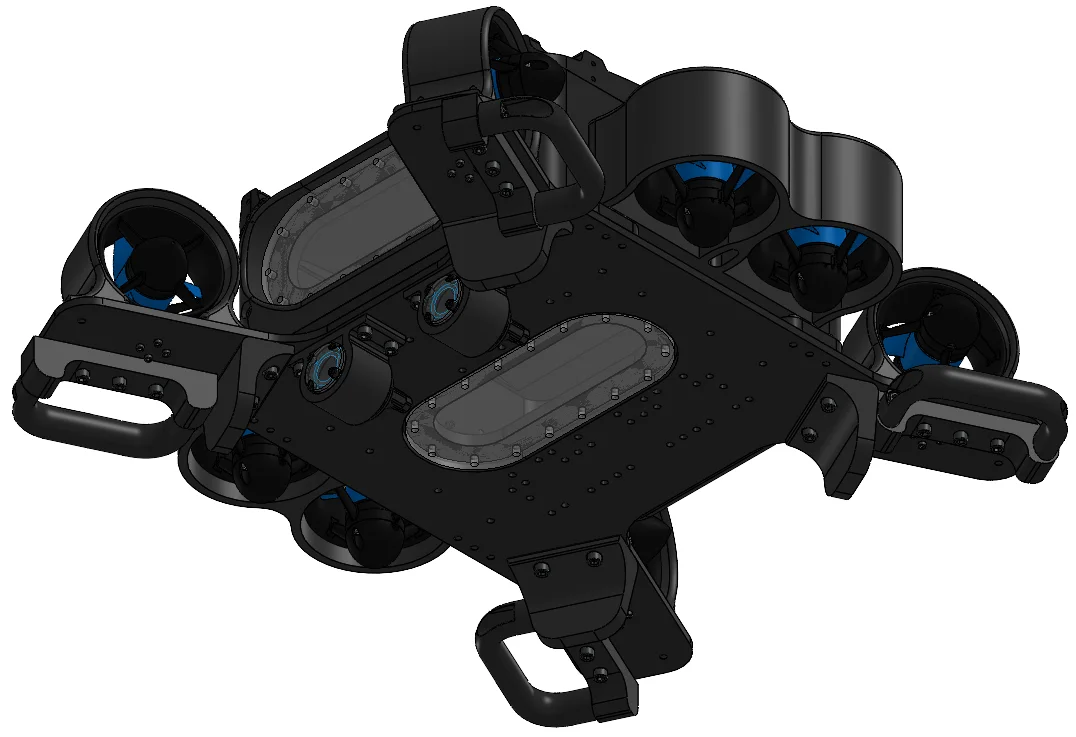
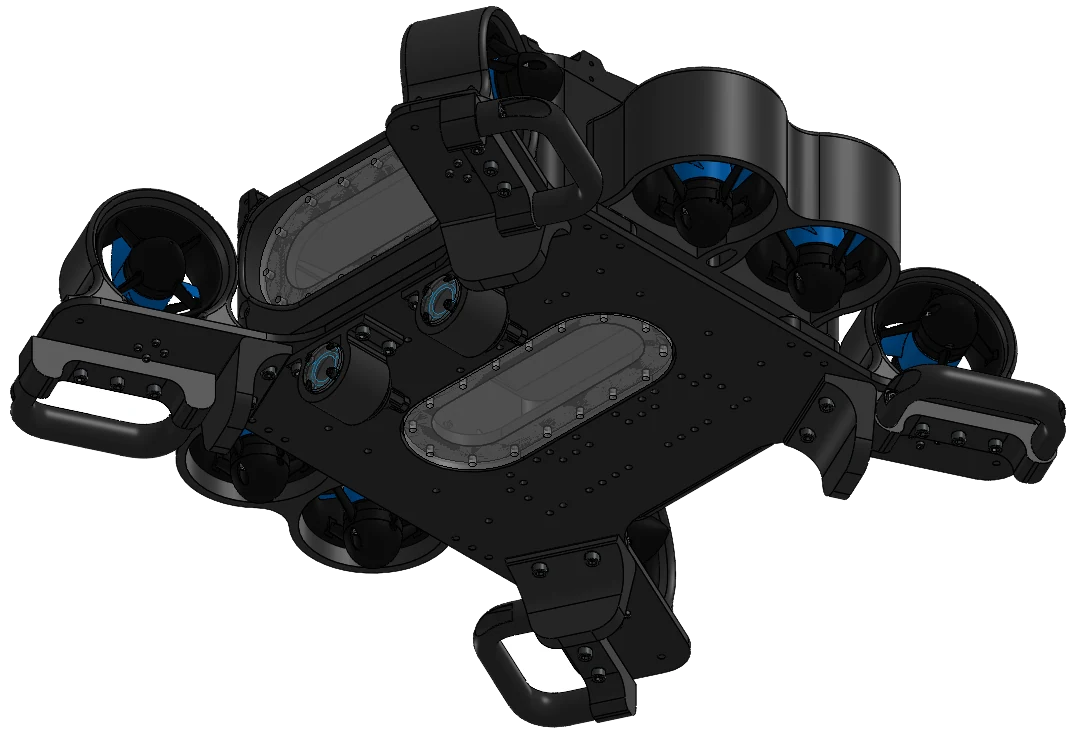
Rework copy, drop contribution callouts, add CAD figures
- Hero role gains the comma; bio and About lead rewritten from Samara's
  own wording.
- "My contribution" callouts removed from the MuddSub and UNSW cards.
- PCB card retitled around the surgical imaging platform, with the new
  one-liner and description.
- E80 schematics replaced with the two titled panels split out of the
  new drawing sheet.
- MuddSub focal is now a background-removed cut-out shown at natural
  aspect, so the thrusters are no longer cropped; it sits beside the
  text in a frameless figure.
- Lab Helper gains the capper CAD render next to the video in a new
  media gallery row.

diff --git a/public/index.html b/public/index.html
@@ -18,7 +18,7 @@
 <link rel="preconnect" href="https://fonts.googleapis.com">
 <link rel="preconnect" href="https://fonts.gstatic.com" crossorigin>
 <link href="https://fonts.googleapis.com/css2?family=Inter:wght@400;500;600;700;800;900&display=swap" rel="stylesheet">
-<link rel="stylesheet" href="/assets/css/styles.css?v=20261007">
+<link rel="stylesheet" href="/assets/css/styles.css?v=20261008">
 <script>document.documentElement.classList.add('js');</script>
 </head>
 <body>
@@ -64,7 +64,7 @@
       <div class="hero-grid">
 
         <aside class="hero-id card reveal">
-          <img class="portrait" src="/assets/img/headshot.webp?v=20261007" alt="Samara Baidwan" width="900" height="900">
+          <img class="portrait" src="/assets/img/headshot.webp?v=20261008" alt="Samara Baidwan" width="900" height="900">
           <dl class="facts">
             <div><dt>School</dt><dd>Harvey Mudd College</dd></div>
             <div><dt>Class</dt><dd>2028</dd></div>
@@ -75,10 +75,9 @@
         <div class="hero-main card reveal">
           <p class="eyebrow">Harvey Mudd College · Class of 2028</p>
           <h1 class="hero-name">Samara Baidwan</h1>
-          <p class="hero-role">Electronics, Materials &amp; Hands-On Design</p>
+          <p class="hero-role">Electronics, Materials, &amp; Hands-On Design</p>
           <p class="hero-bio">
-            I turn ideas into physical hardware. Check out some of my projects in electronics, materials
-            research, and underwater robotics :)
+            I turn ideas into physical hardware. Check out some of my projects below :)
           </p>
           <div class="hero-cta">
             <a class="btn btn-primary" href="mailto:sbaidwan@g.hmc.edu">Email me</a>
@@ -104,8 +103,10 @@
       </header>
       <div class="about-card card reveal">
         <p class="lead">
-          I’m an engineering student at Harvey Mudd College who enjoys turning ideas into physical
-          hardware — from PCB designs and sensor circuits to machined components.
+          My interests are in electronics, instrumentation, and hands-on hardware development,
+          especially PCB design and integrating sensors into working systems. I like taking a design
+          through fabrication, testing, and troubleshooting, and seeing how the individual components
+          come together.
         </p>
         <p>
           My experience spans materials research, instrumentation, and underwater robotics, and I’m
@@ -135,12 +136,11 @@
               <span class="date">Now · 2026</span>
               <span class="chip">In progress</span>
             </div>
-            <h3>Currently working on — PCB design for a modular device</h3>
-            <p class="one-liner">Laying out the electronics for a device built from interchangeable modules.</p>
+            <h3>Currently working on — LED circuit boards for a surgical imaging platform</h3>
+            <p class="one-liner">Designing the illumination boards for a surgical imaging platform — schematic capture in KiCad, board layout in Fusion.</p>
             <p class="desc">
-              I’m designing the board for a modular device — schematic capture, part selection, and
-              layout, with the modules meant to swap in and out. It’s still in design, so I’ll add more
-              here once there’s something worth showing.
+              Designing LED circuit boards for a surgical imaging platform using KiCad and Autodesk
+              Fusion, with a focus on illumination hardware and embedded-system integration.
             </p>
             <ul class="tags">
               <li>PCB design</li><li>Schematic capture</li><li>Part selection</li><li>Board layout</li>
@@ -151,7 +151,7 @@
         <!-- Carbon-Bronze (UNSW) -->
         <article class="project card reveal">
           <figure class="p-focal">
-            <img src="/assets/img/unsw-arcmelt.webp?v=20261007" alt="Arc melter with molten carbon-bronze alloy glowing inside the chamber" loading="lazy" width="1200" height="900">
+            <img src="/assets/img/unsw-arcmelt.webp?v=20261008" alt="Arc melter with molten carbon-bronze alloy glowing inside the chamber" loading="lazy" width="1200" height="900">
           </figure>
           <div class="p-body">
             <div class="p-top">
@@ -170,14 +170,6 @@
               graphite rather than hard, abrasive carbides, and hardness and pin-on-disk friction testing
               to see how they behaved as they wore.
             </p>
-            <p class="contribution">
-              <span>My contribution</span>
-              Team project. I calculated target compositions and prepared alloy charges, and carried out
-              arc melting, heat treatment, metallographic preparation, optical microscopy, and hardness
-              testing. I also improved the group’s MATLAB image-analysis pipeline so it could quantify
-              carbon area fraction and particle-size distribution, and fabricated Zr-based alloys for
-              space nuclear-reactor cladding research.
-            </p>
             <p class="result">
               <span>What we found</span>
               Several of the 21 alloys retained significant carbon. Like a graphite pencil, they leave a
@@ -193,8 +185,8 @@
           <div class="p-extra">
             <div class="slideshow" data-slideshow>
               <div class="slides">
-                <img class="slide is-active" src="/assets/img/unsw-lab1.webp?v=20261007" alt="Running the arc melter in the UNSW lab" loading="lazy" width="900" height="1200">
-                <img class="slide" src="/assets/img/unsw-lab2.webp?v=20261007" alt="Working in the workshop during the UNSW summer placement" loading="lazy" width="1200" height="900">
+                <img class="slide is-active" src="/assets/img/unsw-lab1.webp?v=20261008" alt="Running the arc melter in the UNSW lab" loading="lazy" width="900" height="1200">
+                <img class="slide" src="/assets/img/unsw-lab2.webp?v=20261008" alt="Working in the workshop during the UNSW summer placement" loading="lazy" width="1200" height="900">
               </div>
               <div class="slide-dots" role="tablist" aria-label="Photos from the UNSW summer research">
                 <button class="dot is-active" type="button" role="tab" aria-selected="true" aria-label="Photo 1"></button>
@@ -215,7 +207,7 @@
         <!-- Basilisk -->
         <article class="project card reveal">
           <figure class="p-focal">
-            <img src="/assets/img/basilisk-buoy.webp?v=20261007" alt="Basilisk floating on the water, with its cup anemometer and wind vane mounted above the frame" loading="lazy" width="1500" height="1125">
+            <img src="/assets/img/basilisk-buoy.webp?v=20261008" alt="Basilisk floating on the water, with its cup anemometer and wind vane mounted above the frame" loading="lazy" width="1500" height="1125">
           </figure>
           <div class="p-body">
             <div class="p-top">
@@ -248,12 +240,10 @@
           <div class="p-extra">
             <p class="extra-note">The two sensor circuits I designed for Basilisk.</p>
             <figure class="schematic">
-              <img src="/assets/img/e80-anemometer.webp?v=20261007" alt="Schematic of the anemometer circuit: an A3144 Hall-effect sensor on 5 V with a 10 nF decoupling capacitor, its open-collector output pulled up through 10 kΩ and filtered by 100 pF into Teensy 4.0 pin A0." loading="lazy" width="1400" height="896">
-              <figcaption>Anemometer — A3144 Hall-effect sensor read on Teensy pin A0.</figcaption>
+              <img src="/assets/img/e80-anemometer.webp?v=20261008" alt="Anemometer schematic: an A3144 Hall-effect sensor on 5 V with a 10 nF decoupling capacitor, its output pulled up through 10 kΩ and filtered by 100 pF into Teensy 4.0 pin A0." loading="lazy" width="1007" height="805">
             </figure>
             <figure class="schematic">
-              <img src="/assets/img/e80-weathervane.webp?v=20261007" alt="Schematic of the weathervane circuit: an analog magnetic sensor IC on 5 V with 100 nF decoupling, its output divided by R1 = 18 kΩ and R2 = 30 kΩ into Teensy 4.0 pin A1 at 0.1–3.0 V." loading="lazy" width="1400" height="864">
-              <figcaption>Weathervane — analog magnetic sensor read on Teensy pin A1.</figcaption>
+              <img src="/assets/img/e80-weathervane.webp?v=20261008" alt="Wind-direction schematic: an analog magnetic sensor on 5 V with 100 nF decoupling, its output divided by R1 = 18 kΩ and R2 = 30 kΩ into Teensy 4.0 pin A1 at 0.1–3.0 V." loading="lazy" width="1012" height="805">
             </figure>
           </div>
         </article>
@@ -280,19 +270,25 @@
             </p>
             <p class="team">Team: <span>Samara Baidwan, Sophie, Luna, Soraya, Lucas</span></p>
           </div>
-          <figure class="p-focal p-focal--video">
-            <video controls preload="metadata" playsinline poster="/assets/video/lab-helper-poster.jpg?v=20261007">
-              <source src="/assets/video/lab-helper.mp4?v=20261007" type="video/mp4">
-              Your browser doesn’t support embedded video.
-            </video>
-            <figcaption>Lab Helper capping a full rack of tubes.</figcaption>
-          </figure>
+          <div class="p-gallery">
+            <figure class="media">
+              <video controls preload="metadata" playsinline poster="/assets/video/lab-helper-poster.jpg?v=20261008">
+                <source src="/assets/video/lab-helper.mp4?v=20261008" type="video/mp4">
+                Your browser doesn’t support embedded video.
+              </video>
+              <figcaption>Lab Helper capping a full rack of tubes.</figcaption>
+            </figure>
+            <figure class="media">
+              <img src="/assets/img/lab-cad.webp?v=20261008" alt="CAD model of the Lab Helper capper, showing the hinged press above a rack holding a row of tubes" loading="lazy" width="1400" height="956">
+              <figcaption>CAD of the capper — hinged press and tube rack.</figcaption>
+            </figure>
+          </div>
         </article>
 
         <!-- MuddSub -->
         <article class="project card reveal">
-          <figure class="p-focal">
-            <img src="/assets/img/sub-crush.webp?v=20261007" alt="CAD model of Crush, MuddSub’s autonomous underwater vehicle" loading="lazy" width="1500" height="1500">
+          <figure class="p-focal p-focal--cutout">
+            <img src="/assets/img/sub-crush.webp?v=20261008" alt="CAD model of Crush, MuddSub’s autonomous underwater vehicle" loading="lazy" width="1074" height="737">
           </figure>
           <div class="p-body">
             <div class="p-top">
@@ -307,12 +303,6 @@
               team — running design reviews, machining enclosures, prototyping actuators, and integrating
               electronics and waterproofing — and I work with club leadership to keep dependencies clear
               across the mechanical, electrical, and software subteams.
-            </p>
-            <p class="contribution">
-              <span>My contribution</span>
-              Team project. As mechanical co-president (elected 2026) I lead mechanical development of
-              Crush and mentor members in SolidWorks drawing preparation, enclosure machining, actuator
-              prototyping, electronics integration, and waterproofing.
             </p>
             <ul class="tags">
               <li>SolidWorks</li><li>Machining</li><li>Enclosure design</li><li>Actuator prototyping</li>
@@ -450,6 +440,6 @@
   </div>
 </footer>
 
-<script src="/assets/js/main.js?v=20261007" defer></script>
+<script src="/assets/js/main.js?v=20261008" defer></script>
 </body>
 </html>

diff --git a/public/assets/css/styles.css b/public/assets/css/styles.css
@@ -152,7 +152,7 @@ h1,h2,h3{margin:0;font-weight:800;letter-spacing:-.03em;line-height:1.1;color:va
 .hero-main{display:flex;flex-direction:column;justify-content:center;padding:clamp(1.6rem,3.4vw,2.8rem)}
 .eyebrow{font-size:.8rem;font-weight:600;letter-spacing:.12em;text-transform:uppercase;color:var(--ink-3);margin:0 0 .9rem}
 .hero-name{font-size:clamp(2.6rem,7vw,4.6rem);font-weight:900;line-height:1.02;margin:0 0 .5rem}
-.hero-role{font-size:clamp(1.25rem,3.2vw,1.9rem);font-weight:800;letter-spacing:-.025em;color:var(--accent);margin:0 0 1.1rem}
+.hero-role{font-size:clamp(1.25rem,3.2vw,1.9rem);font-weight:800;letter-spacing:-.025em;color:var(--accent);margin:0 0 1.1rem;text-wrap:balance}
 .hero-bio{color:var(--ink-2);font-size:1.05rem;max-width:52ch;margin:0 0 1.7rem}
 .hero-cta{display:flex;flex-wrap:wrap;gap:.7rem;margin-bottom:1.6rem}
 .btn{
@@ -193,12 +193,8 @@ h1,h2,h3{margin:0;font-weight:800;letter-spacing:-.03em;line-height:1.1;color:va
 .desc{color:var(--ink-2);font-size:.95rem;margin:0 0 1.1rem;max-width:82ch}
 .team{font-size:.85rem;color:var(--ink-2);margin:0 0 1.1rem}
 .team span{font-weight:700;color:var(--ink)}
-.result,.contribution{font-size:.86rem;color:var(--ink-2);border-radius:12px;padding:.85rem 1.1rem;margin:0 0 1.2rem;max-width:82ch}
-.result{background:var(--accent-wash)}
-.contribution{background:var(--team-wash)}
-.result span,.contribution span{display:block;font-size:.7rem;font-weight:700;letter-spacing:.1em;text-transform:uppercase;margin-bottom:.3rem}
-.result span{color:var(--accent-ink)}
-.contribution span{color:var(--team-ink)}
+.result{font-size:.86rem;color:var(--ink-2);border-radius:12px;padding:.85rem 1.1rem;margin:0 0 1.2rem;max-width:82ch;background:var(--accent-wash)}
+.result span{display:block;font-size:.7rem;font-weight:700;letter-spacing:.1em;text-transform:uppercase;margin-bottom:.3rem;color:var(--accent-ink)}
 .tags{display:flex;flex-wrap:wrap;gap:.4rem;margin:.2rem 0 0}
 .tags li{font-size:.77rem;font-weight:500;color:var(--ink-2);background:var(--card-2);border:1px solid var(--border);padding:.3rem .68rem;border-radius:8px}
 
@@ -211,13 +207,20 @@ h1,h2,h3{margin:0;font-weight:800;letter-spacing:-.03em;line-height:1.1;color:va
 .p-focal:hover img{transform:scale(1.03)}
 .p-body{flex:1 1 56%;min-width:0}
 
-/* video */
-.p-focal--video{
-  border:0;background:none;overflow:visible;max-width:820px;
-  display:flex;flex-direction:column;gap:.5rem;
-}
-.p-focal--video video{width:100%;border-radius:16px;border:1px solid var(--border);display:block;background:#12100e}
-.p-focal--video figcaption{font-size:.78rem;color:var(--ink-3)}
+/* cut-out renders carry their own transparent background, so no frame and
+   no aspect-ratio crop — the whole model stays visible */
+.p-focal--cutout{border:0;background:none;max-width:380px}
+.p-focal--cutout img{aspect-ratio:auto;object-fit:contain}
+.p-focal--cutout:hover img{transform:none}
+
+/* media gallery (video + CAD renders) */
+.p-gallery{display:flex;flex-wrap:wrap;gap:clamp(.9rem,2vw,1.2rem) clamp(1rem,2.4vw,2rem);align-items:flex-start}
+.project--stack .p-gallery{flex:1 1 100%}
+.media{flex:1 1 20rem;min-width:0;margin:0;display:flex;flex-direction:column;gap:.5rem}
+.media img,.media video{width:100%;border-radius:16px;border:1px solid var(--border);display:block}
+.media img{background:var(--card-2)}
+.media video{background:#12100e}
+.media figcaption{font-size:.78rem;color:var(--ink-3)}
 
 /* extra row (e.g. the UNSW photo reel) */
 .p-extra{
